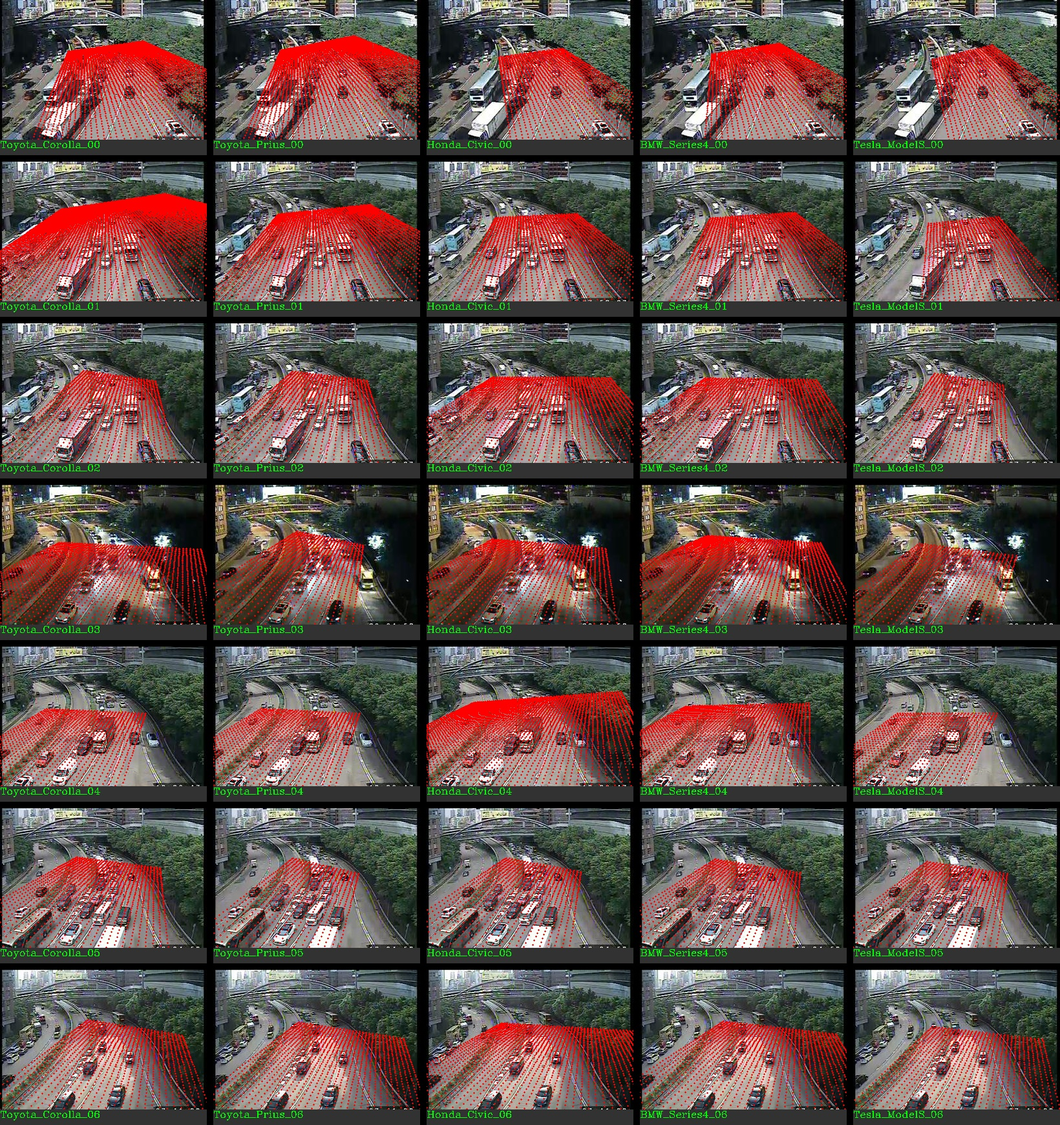
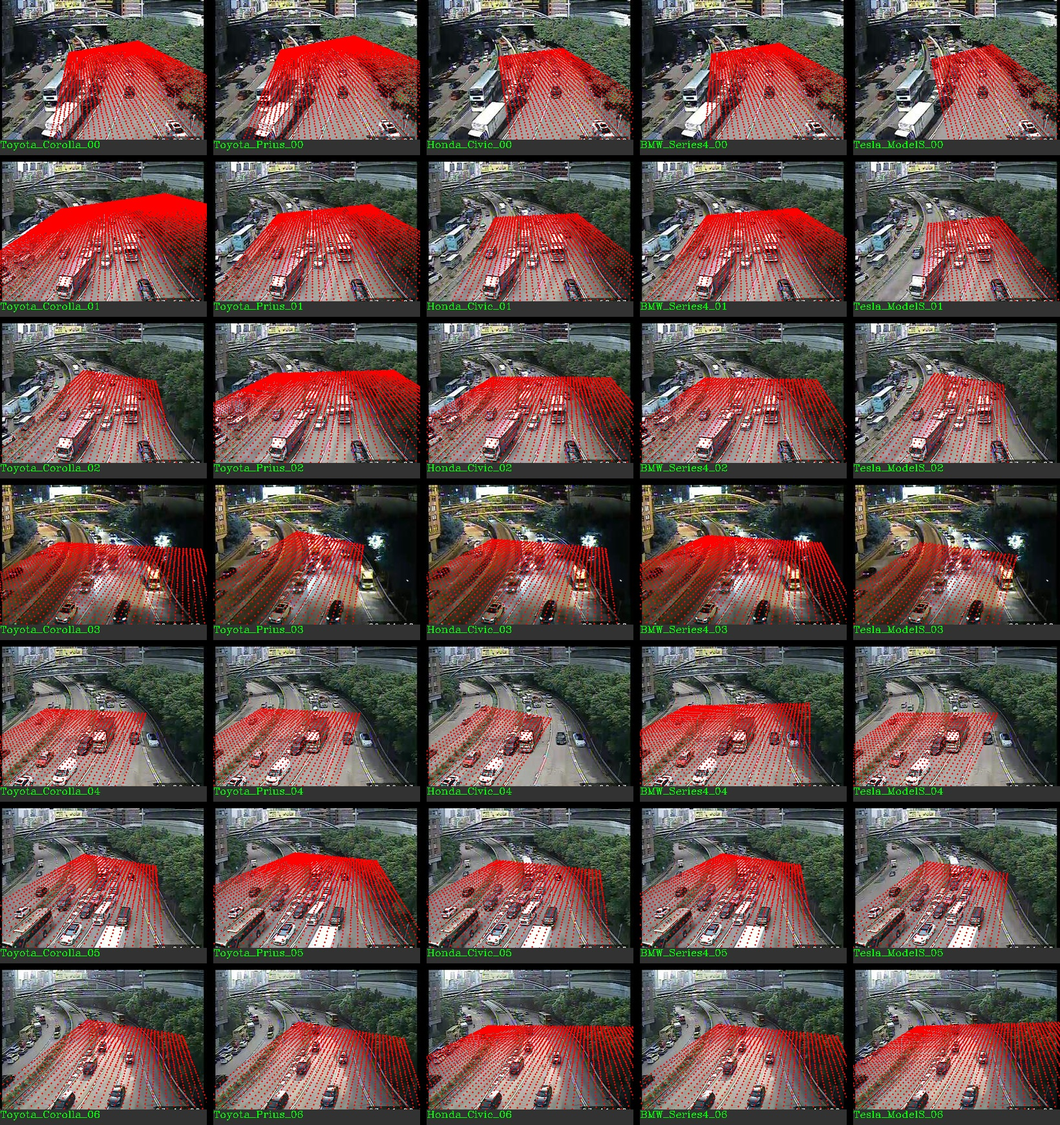
fix: bugs for parameter_finetune.py

diff --git a/camera_calibration/parameter_finetune.py b/camera_calibration/parameter_finetune.py
@@ -21,7 +21,7 @@ class ParameterFinetune(BaseModel):
             vmm_results = json.load(f)
         return vmm_results
 
-    def get_back_projected_loss(self, object_points, back_projected_points, rvec, tvec, f):
+    def get_back_projected_loss(self, object_points, back_projected_points):
         pairs = combinations(range(len(object_points)), 2)
         distance_loss = 0
         angle_loss = 0
@@ -31,7 +31,6 @@ class ParameterFinetune(BaseModel):
             length_object = np.linalg.norm(object_vec)
             length_back_projected = np.linalg.norm(back_projected_vec)
             cos_theta = np.dot(object_vec, back_projected_vec.T) / (length_object * length_back_projected)
-
             distance_loss += np.square(length_object - length_back_projected)
             angle_loss += np.sqrt(1 - min(np.square(cos_theta), 1))
         pair_num = len(object_points) * (len(object_points) - 1) / 2
@@ -43,12 +42,11 @@ class ParameterFinetune(BaseModel):
         for i, (object_points, image_points) in enumerate(zip(self.object_points_full, self.image_points_full)):
             back_projected_points = []
             for object_point, image_point in zip(object_points, image_points):
-                X_hat, Y_hat = self.get_back_projected_point(object_point, rvec, tvec, f, object_point[-1])
+                X_hat, Y_hat = self.get_back_projected_point(image_point, rvec, tvec, f, object_point[-1])
                 back_projected_points.append([X_hat, Y_hat, object_point[-1]])
             back_projected_points = np.array(back_projected_points)
 
-            losses.append(self.get_back_projected_loss(object_points, back_projected_points,
-                                                       rvec, tvec, f))
+            losses.append(self.get_back_projected_loss(object_points, back_projected_points))
             back_projected_centriods.append(np.mean(back_projected_points, axis=0))
 
         fix_centriod = np.reshape(np.mean(fixed_object_points, axis=0), [1, 3])

diff --git a/camera_calibration/candidate_generation.py b/camera_calibration/candidate_generation.py
@@ -2,7 +2,7 @@ import os
 import json
 import numpy as np
 from cv2 import cv2
-from .base_model import BaseModel
+from base_model import BaseModel
 from itertools import combinations
 from camera_calibration.util_files.io import load_image_points, load_object_points
 
@@ -60,7 +60,7 @@ class CandidateGeneration(BaseModel):
                 temp_res[key]["rvec"] = rvec.tolist()
                 temp_res[key]["tvec"] = tvec.tolist()
                 temp_res[key]["f"] = self.focal_length
-                temp_res[key]["loss"] = loss
+                temp_res[key]["loss"] = loss.tolist()
             res[i] = temp_res
 
         self.create_montage(images, os.path.join(self.save_dir, "cg_montage.jpg"), model_num, vehicle_num)

diff --git a/camera_calibration/vehicle_model_matching.py b/camera_calibration/vehicle_model_matching.py
@@ -120,7 +120,7 @@ if __name__ == "__main__":
     config["image_height"] = 240
     config["image_width"] = 320
     config["focal_length"] = 350
-    config["alpha"] = 1
+    config["alpha"] = 6
     config["temperature"] = 0
     config["budget_1"] = 2000
     config["budget_2"] = 4000
